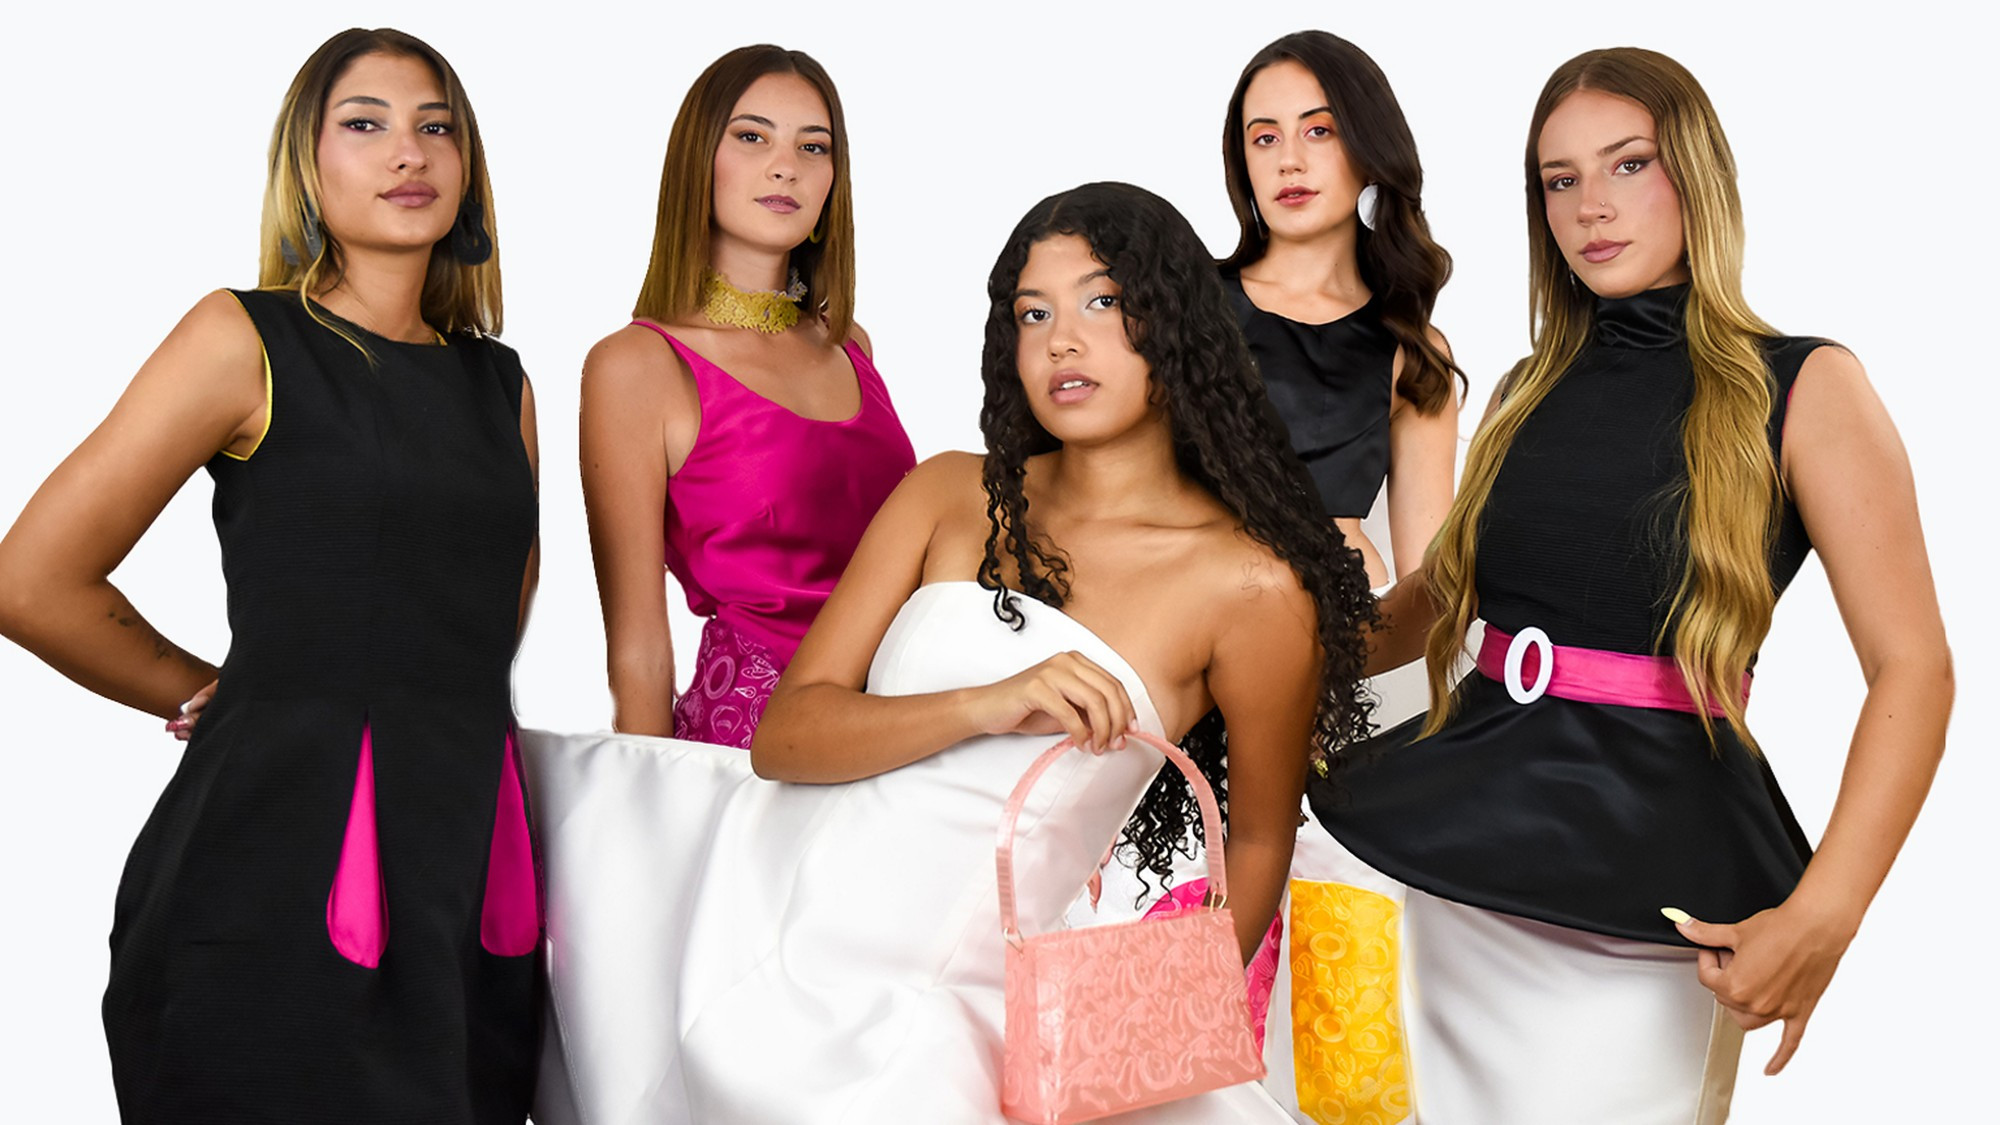
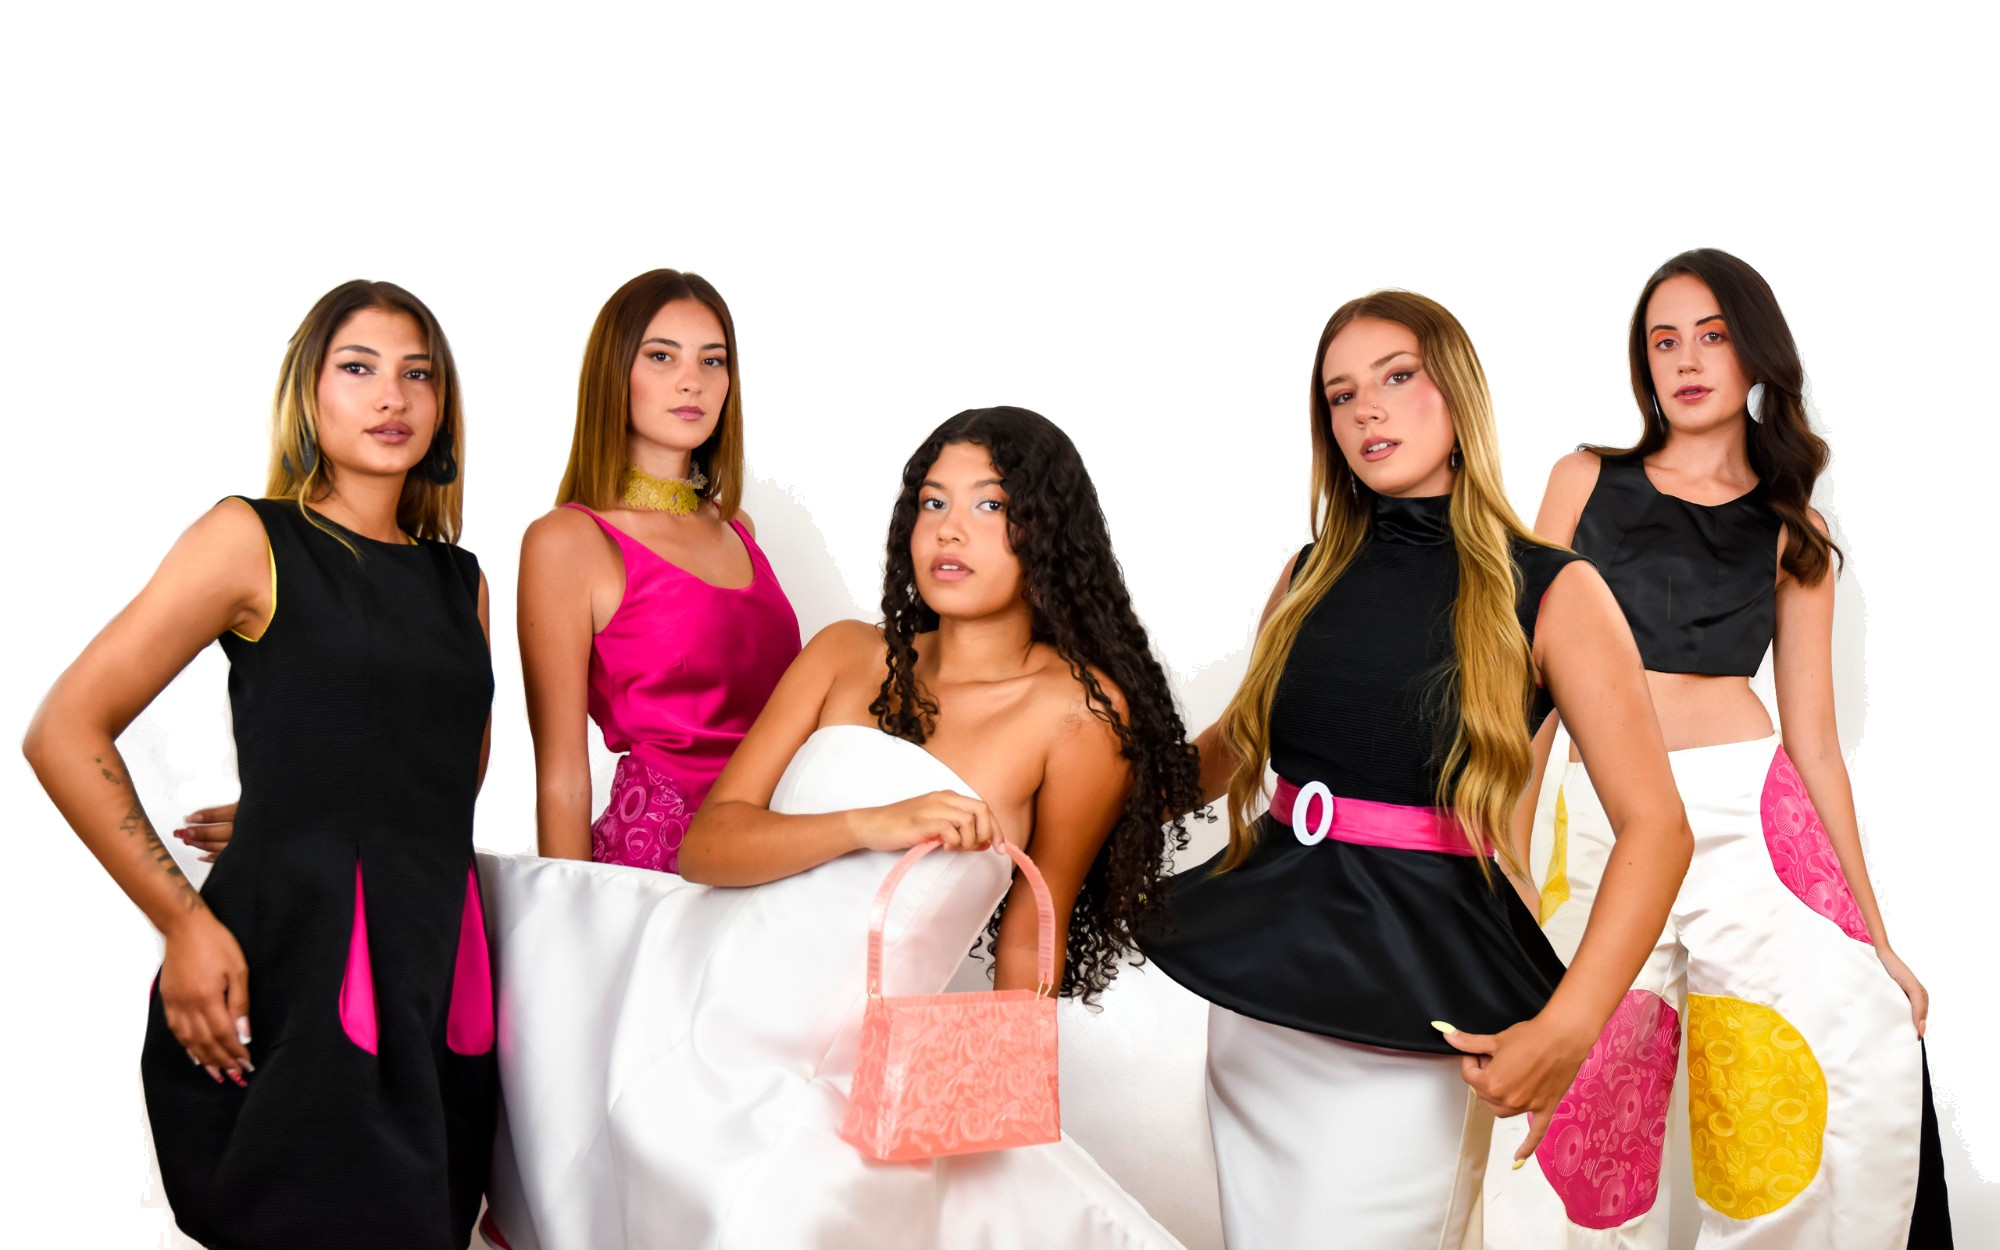
Portada: nueva foto del grupo Rebirth con más aire
Se iguala el fondo a blanco puro para quitar el corte de montaje de la
parte superior y se ajusta el encuadre.

Claude-Session: https://claude.ai/code/session_01Mn2iTmEB4PEhkST2NYW2YV

diff --git a/web2/data.js b/web2/data.js
@@ -15,7 +15,7 @@ window.QY = {
     author: 'Carmen Álvarez Feriche', authorRole: L('Diseñadora de autor', 'Author designer'),
   },
   hero: [
-    { slot: 'web-hero-1', pos: 'center 12%', posM: '46% center', src: 'assets/opt/home/grupo-rebirth-2.jpg', col: 'rebirth', cap: L('Rebirth, editorial', 'Rebirth, editorial') },
+    { slot: 'web-hero-1', pos: 'center 40%', posM: '46% center', src: 'assets/opt/home/grupo-rebirth-2.jpg', col: 'rebirth', cap: L('Rebirth, editorial', 'Rebirth, editorial') },
     { slot: 'web-hero-2', posM: '58% center', src: 'assets/opt/home/thalaira-agua.jpg', col: 'thalaira', cap: L('Thalaira, editorial', 'Thalaira, editorial') },
     { slot: 'web-hero-3', posM: '55% center', src: 'assets/opt/home/detalle-bolsillo.jpg', col: 'rebirth', cap: L('Rebirth, detalle', 'Rebirth, detail') },
     { slot: 'web-hero-4', posM: '46% center', src: 'img/home-cruzroja-2025-hospital-real.jpg', col: 'thalaira', cap: L('Thalaira, Pasarela Cruz Roja Granada · Hospital Real', 'Thalaira, Cruz Roja Granada Runway · Hospital Real') },
